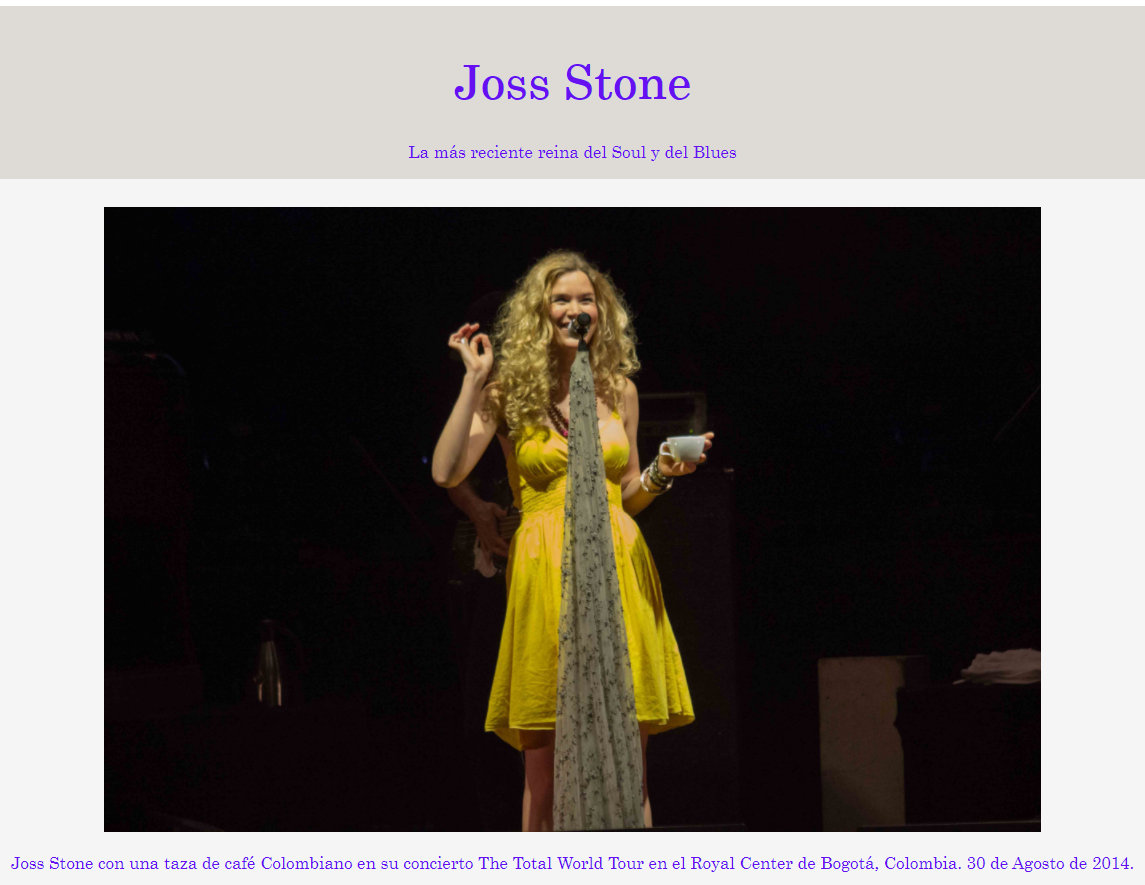
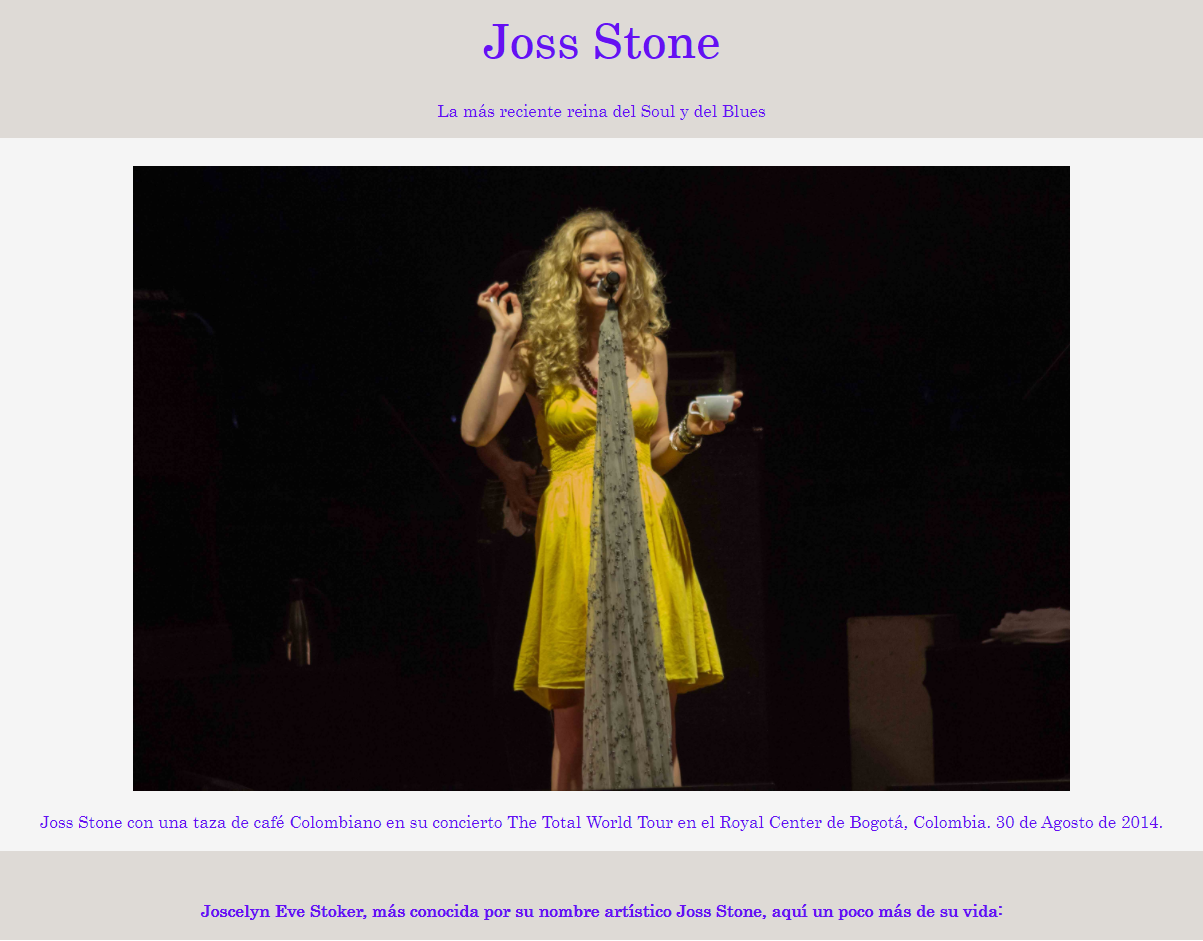
Corrección de estilos

diff --git a/index.html b/index.html
@@ -1,5 +1,6 @@
 <!DOCTYPE html>
 <html lang="en">
+
 <head>
     <meta charset="UTF-8">
     <meta name="viewport" content="width=device-width, initial-scale=1, shrink-to-fit=no">
@@ -12,58 +13,70 @@
     <link rel="stylesheet" href="style.css">
     <title>Personal Portfolio WebPage</title>
 </head>
+
 <body>
     <header>
-        <nav id="navbar">
-            <ul>
-                <li><a href="#welcome-section">About Me</a></li>
-                <li><a href="#projects">Projects</a></li>
-                <li><a href="#contact">Contact</a></li>
+        <nav id="navbar" class="navbar fixed-top navbar-expand-lg navbar-dark bg-dark">
+            <div class="collapse navbar-collapse" id="navbarSupportedContent">
+            <ul class="navbar-nav mr-auto">
+                <li class="nav-item"><a class="nav-link" href="#welcome-section">About Me</a></li>
+                <li class="nav-item"><a class="nav-link" href="#projects">Projects</a></li>
+                <li class="nav-item"><a class="nav-link" href="#contact">Contact</a></li>
             </ul>
+        </div>
         </nav>
     </header>
-    <main>
-        <section id="welcome-section">
+    <main class="container text-center">
+        <section id="welcome-section" class="welcome">
             <h1>A L O H A, I'm Nicolás Arbeláez Ramírez</h1>
-            <h4>But just call me Nico</h3>
-            <p>a FrontEnd Junior Programmer Student</p>
+            <h4>But just call me Nico</h4>
+                <p>a FrontEnd Junior Programmer Student</p>
         </section>
-        <section id="projects">
-            <h3>Here you can find some of my projects</h2>
-                <article class="row">
-                    <div class="col-2"></div>
-                    <div class="col-4">
-                        <div class="card" style="width: 18rem;">
-                            <img src="./img/tributepage.png" class="card-img-top" alt="...">
-                            <div class="card-body">
-                              <h5 class="card-title project-tile">Tribute Page</h5>
-                              <a href="https://nicoarbe.github.io/Tribute-Page/" class="btn btn-primary"></a>
-                            </div>
+        <section id="projects" class="project border-top border-secondary py-5">
+            <article class="projectsti text-center mb-5">
+                <h2>Here you can find some of my projects</h2>
+            </article>
+            <article class="row justify-content-around">
+                <div class="col-2"></div>
+                <div class="col-4">
+                    <div class="card text-center border-dark bg-secondary" style="width: 18rem;">
+                        <img src="./img/tributepage.png" class="card-img-top" alt="tribute page image">
+                        <div class="card-body">
+                            <h5 class="card-title project-tile">Tribute Page</h5>
+                            <a href="https://nicoarbe.github.io/Tribute-Page/" class="btn btn-dark btn-sm">¿Quieres ver
+                                más?</a>
                         </div>
                     </div>
-                    <div class="col-4">
-                        <div class="card" style="width: 18rem;">
-                            <img src="./img/calculator.png" class="card-img-top" alt="...">
-                            <div class="card-body">
-                              <h5 class="card-title project-title">JavaScript Calculator</h5>
-                              <a href="https://6ew0o.csb.app/" class="btn btn-primary"></a>
-                            </div>
+                </div>
+                <div class="col-4">
+                    <div class="card text-center border-dark bg-secondary" style="width: 18rem;">
+                        <img src="./img/calculator.png" class="card-img-top" alt="calculator image">
+                        <div class="card-body">
+                            <h5 class="card-title project-title">JavaScript Calculator</h5>
+                            <a href="https://6ew0o.csb.app/" class="btn btn-dark btn-sm">¿Quieres ver más?</a>
                         </div>
                     </div>
-                    <div class="col-2"></div>
-                </article>
+                </div>
+                <div class="col-2"></div>
+            </article>
         </section>
-        <section id="contact">
+        <section id="contact" class="contact border-top border-secondary mt-5 pt-5">
             <div>
-                <h2></h2>
-                <p></p>
+                <h2>Let's create a better world and help people</h2>
+                <p>Do you want to know how?</p>
             </div>
-            <div>
-                <a id="profile-link" href="https://github.com/nicoarbe" target="_blank"></a>
+            <div class="socialmedia text-dark">
+                <a id="profile-link" href="https://github.com/nicoarbe" target="_blank" class="btn contact-details"><i class="fab fa-github"></i>GitHub</a>
             </div>
-
+            <div class="socialmedia text-dark">
+                <a id="profile-link" href="https://twitter.com/nicoarbelaez" target="_blank" class="btn contact-details"><i class="fab fa-twitter"></i>Twitter</a>
+            </div>
+            <div class="socialmedia text-dark">
+                <a id="profile-link" href="mailto:nicoarbelaez@gmail.com" target="_blank" class="btn contact-details"><i class="fas fa-at"></i>Email</a>
+            </div>
         </section>
     </main>
-    <footer>Designed and Created by Nicolás Arbeláez</footer>
+    <footer class="footer text-right mr-5 py-4">Designed and Created by Nicolás Arbeláez</footer>
 </body>
+
 </html>

diff --git a/style.css b/style.css
@@ -1,12 +1,23 @@
-header{
-    position: fixed;
-    display: flex;
-    
+body{
+    background-color: lightgray;
+}
+
+.welcome{
+    padding-top: 40vh;
 }
 
 #welcome-section{
     height: 100vh;
 }
+
+.btn{
+    display: inline-block;
+}
+
+.fab{
+    display: inline-block;
+}
+
 @media (max-width: 798px){
     body{
         background-color: gray;
